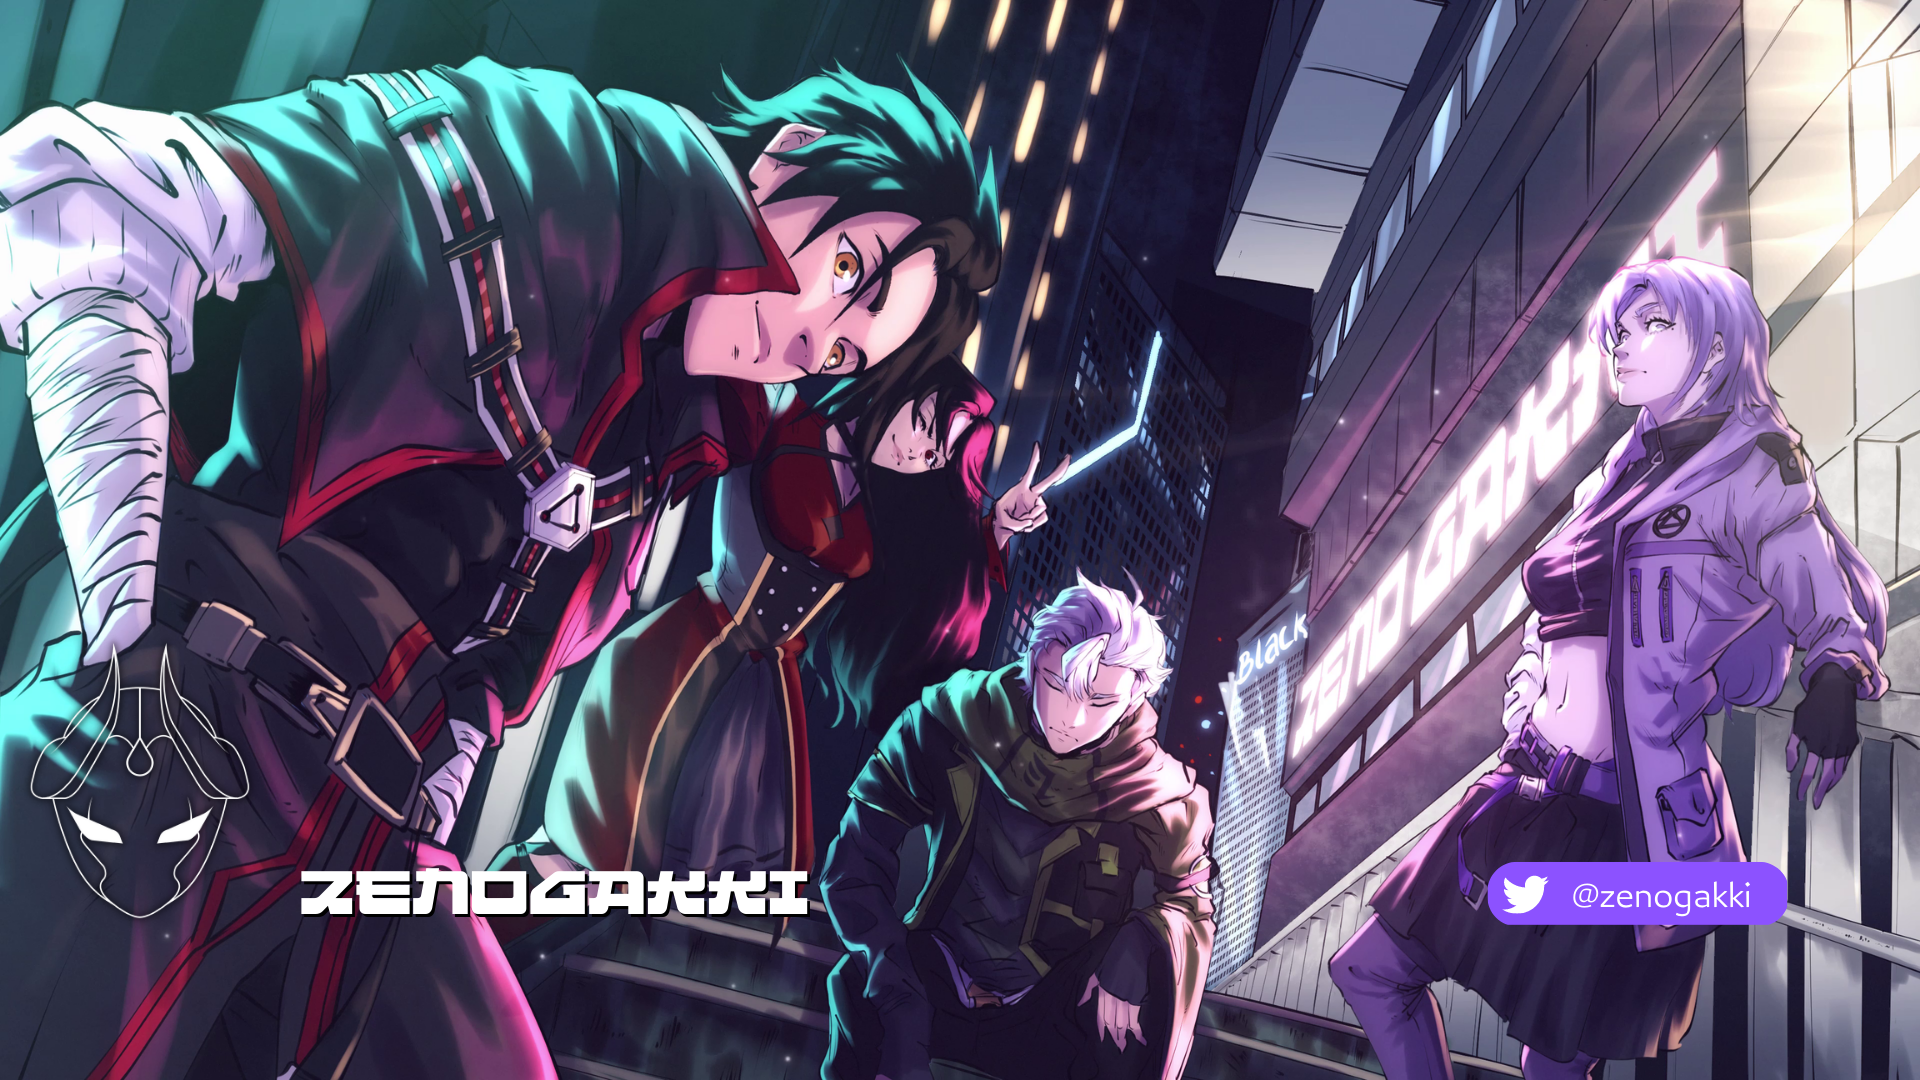
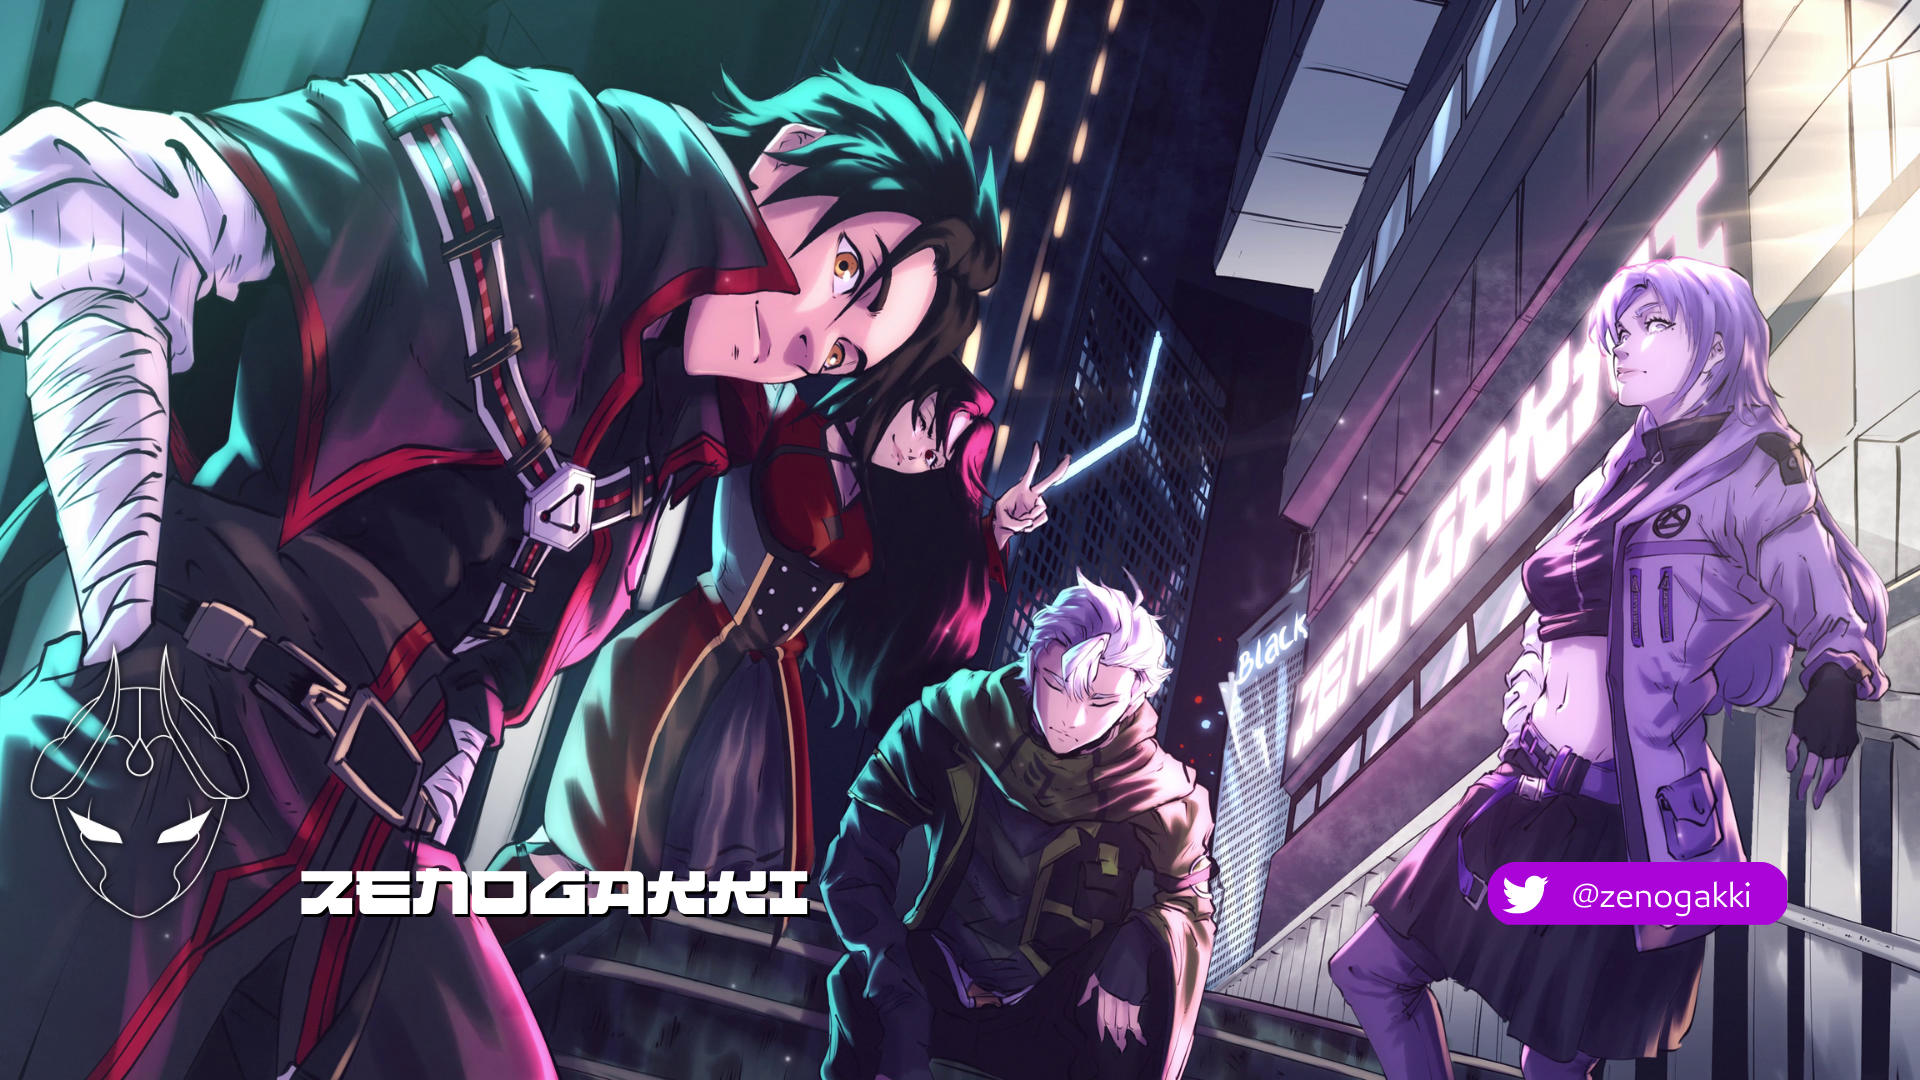
game update 1.0.0
update logo, color

Changed region(s): [[0.75, 0.7944, 0.9375, 0.8556]]

diff --git a/css/login.css b/css/login.css
@@ -11,18 +11,19 @@
   display: flex;
   flex-direction: column;
   justify-content: center;
-  margin-bottom: 50px;
+  margin-bottom: 10px;
 }
 
 .login__header img {
-  width: 250px;
+  width: 300px;
+  margin-bottom: 10px;
 }
 
 
 
 .login__header h1 {
   color: #333;
-  font-size: 1.5em;
+  font-size: 1.3em;
 }
 
 .login__input {
@@ -38,7 +39,7 @@
 }
 
 .login__button {
-  background-color: #B382EC;
+  background-color: #AB04D8;
   border: 3px solid #4C3564;
   border-radius: 8px;
   color: #fff;

diff --git a/css/game.css b/css/game.css
@@ -79,7 +79,7 @@ header {
   }
 }
 .reset-button {
-  background-color: #B382EC;
+  background-color: #AB04D8;
   border: 3px solid #4C3564;
   border-radius: 8px;
   color: #fff;
@@ -90,7 +90,7 @@ header {
 }
 
 #back-button {
-  background-color: #B382EC;
+  background-color: #AB04D8;
   border: 3px solid #4C3564;
   border-radius: 8px;
   color: #fff;

diff --git a/index.html b/index.html
@@ -18,8 +18,7 @@
   <form class="login-form">
 
     <div class="login__header">
-      <img src="./images/logo.png" alt="logo">
-      <img src="./images/zeno.png" alt="brain icon">
+      <img src="./images/logozeno.png" alt="zeno icon">
       <h1>Memory Game</h1>
     </div>
 
